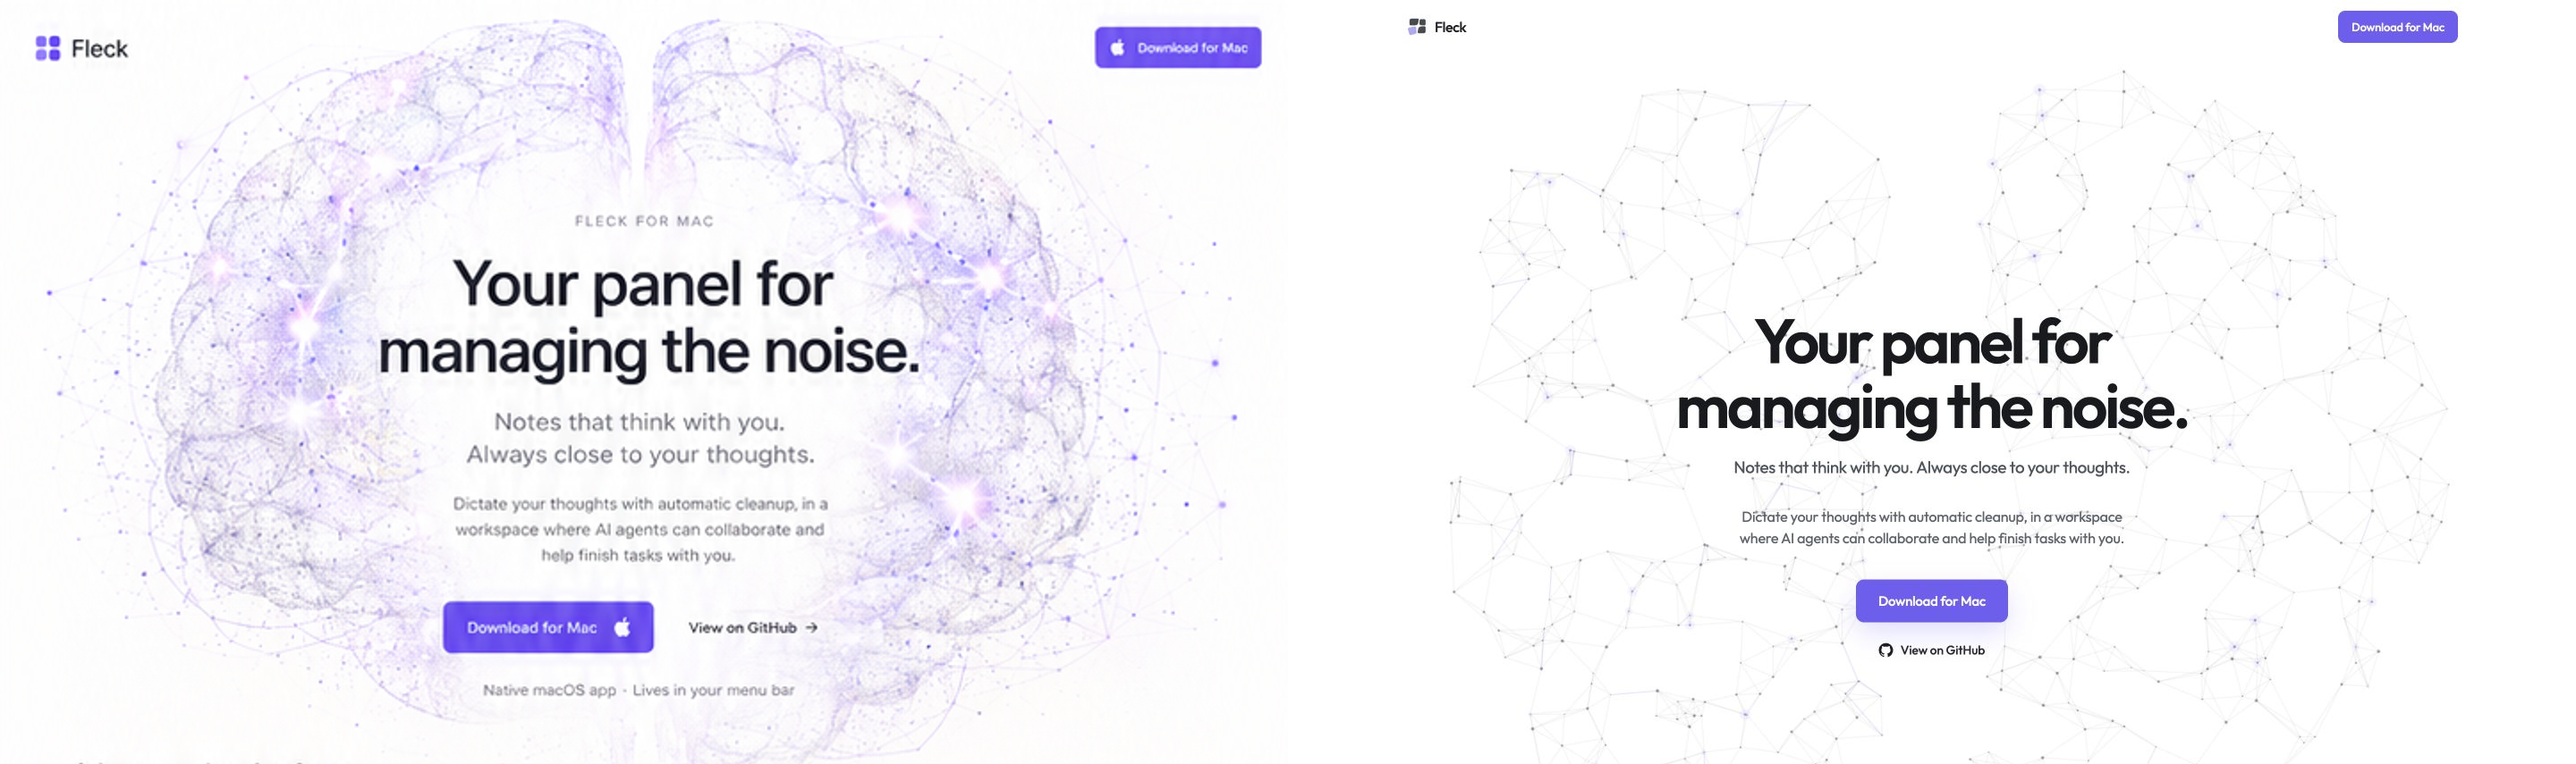
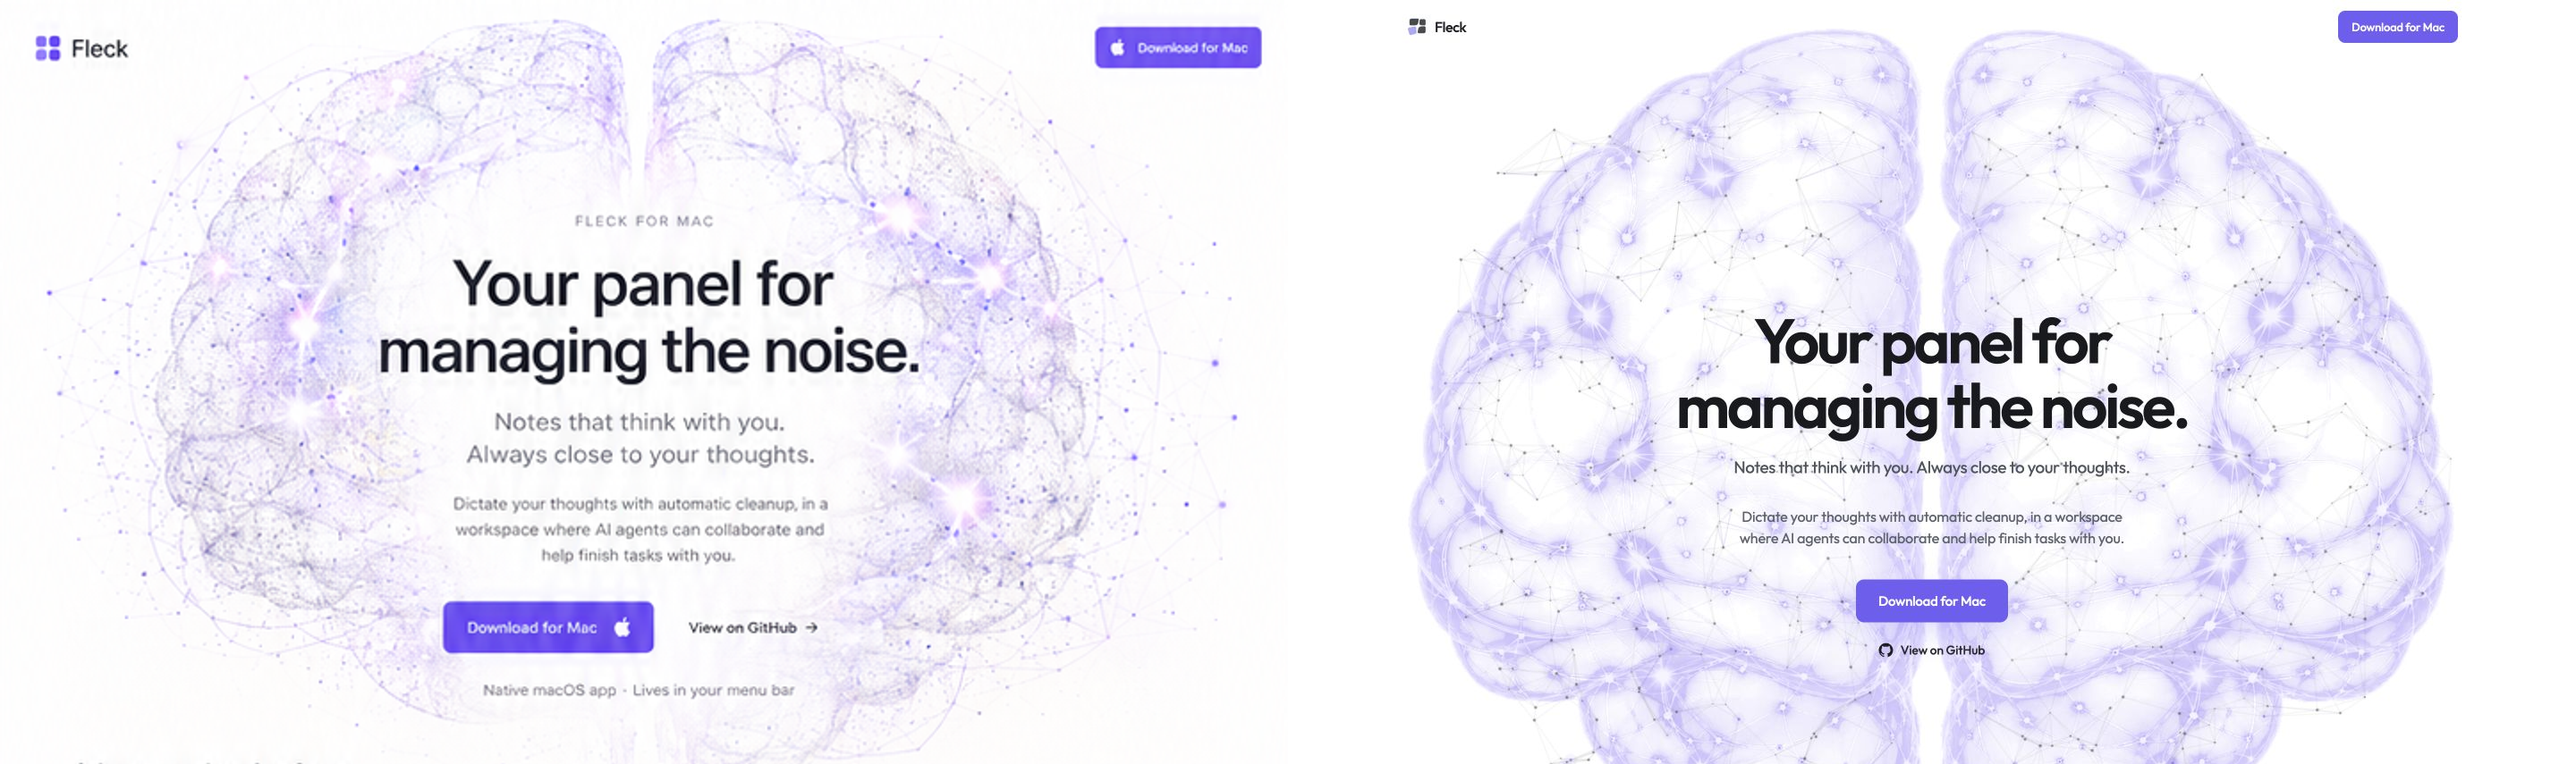
Revert "docs: specify ideas arrival section"
This reverts commit 94b3c99d13a346eea60a6aaf055b6059438b92f4.

Changed region(s): [[0.5312, 0.0304, 0.9688, 1.0], [0.6875, 0.5474, 0.8125, 0.7602]]

diff --git a/website/src/BrainHologram.jsx b/website/src/BrainHologram.jsx
@@ -141,6 +141,13 @@ export default function BrainHologram() {
   return (
     <div className="brain-hologram" aria-hidden="true">
       <div className="brain-hologram-visual">
+        <img
+          src="/assets/fleck-brain-hologram.png"
+          alt=""
+          width="1536"
+          height="1024"
+          decoding="async"
+        />
         <canvas ref={canvasRef} className="brain-network" />
       </div>
     </div>

diff --git a/website/src/styles.css b/website/src/styles.css
@@ -143,6 +143,7 @@ a {
   animation: brain-breathe 9s ease-in-out infinite;
 }
 
+.brain-hologram img,
 .brain-network {
   position: absolute;
   inset: 0;
@@ -151,7 +152,16 @@ a {
   height: 100%;
 }
 
+.brain-hologram img {
+  z-index: 0;
+  object-fit: contain;
+  opacity: 0.86;
+  filter: saturate(1.18) contrast(1.02);
+  mix-blend-mode: multiply;
+}
+
 .brain-network {
+  z-index: 1;
   opacity: 0.86;
 }
 

diff --git a/website/design-qa.md b/website/design-qa.md
@@ -20,10 +20,13 @@ scope: the brain hologram only.
 - Spacing and layout rhythm: The brain fills the desktop hero at approximately
   the same visual scale as the source and remains centered without horizontal
   overflow at 390 px.
-- Colors and visual tokens: The hero uses only graphite and pale-violet canvas
-  geometry; no generated brain image is rendered behind it.
-- Network rendering: A deterministic canvas adds 560 desktop nodes and more
-  than two connections per node across two separated hemispheres.
+- Colors and visual tokens: The first render exposed a cyan-green chroma cast.
+  The final asset was recolored to the approved pale lavender and violet palette.
+- Image quality and asset fidelity: The 1536 × 1024 anatomical raster asset has
+  transparent corners, a clear bilateral silhouette, central fissure,
+  recognizable lobes, and restrained glowing nodes. A deterministic canvas
+  overlay adds 560 desktop nodes and more than two connections per node while
+  remaining lighter than the dense source reference.
 - Copy and content: No hero copy changed in this pass.
 - Responsive behavior: Desktop and mobile captures have no horizontal overflow.
 - Interaction: Moving the pointer across the brain gently displaces nearby nodes
@@ -36,14 +39,20 @@ scope: the brain hologram only.
 
 ## Comparison history
 
-1. Interaction revision: restored the earlier responsive dot-and-line behavior
+1. Initial implementation: recognizable brain, but the browser render showed a
+   green cast from chroma removal and excessive visual weight.
+2. Fix: recolored the raster asset to lavender/violet and reduced its visual
+   weight.
+3. Interaction revision: restored the earlier responsive dot-and-line behavior
    as a separate canvas, constrained its nodes to two brain-shaped hemispheres,
    and increased edge density without restoring the cursor signal.
-2. The generated anatomical background image was removed at the user's request,
-   leaving the original interactive canvas as the complete hero visual.
-3. Post-fix evidence: `design-qa-hero-desktop.png`,
-   `design-qa-hero-mobile.png`, and `design-qa-hero-comparison.png` show the
-   canvas-only treatment and readable copy.
+4. Compositing fix: moved the breathing scale to the shared layer so the raster
+   and canvas stay registered, then separated their opacity and z-index values
+   so the anatomical base remains visible.
+5. Post-fix evidence: `design-qa-hero-desktop.png`,
+   `design-qa-hero-mobile.png`, and `design-qa-hero-comparison.png` show a clear
+   brain silhouette, visible interactive network, approved white-violet
+   treatment, and readable copy.
 
 ## Focused comparison
 
@@ -52,7 +61,9 @@ region. No additional component crop was needed.
 
 ## Follow-up polish
 
-- P3: Node and edge opacity can be tuned after live user feedback.
+- P3: Node and edge opacity can be tuned after live user feedback; the current
+  hybrid intentionally sits between the old random web and the denser approved
+  concept.
 
 ## Final result
 
